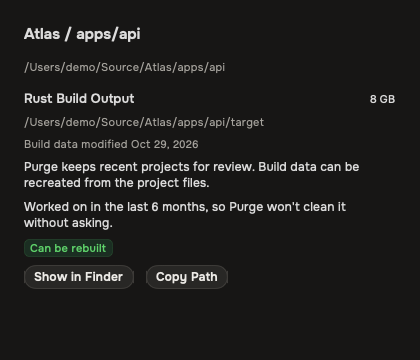
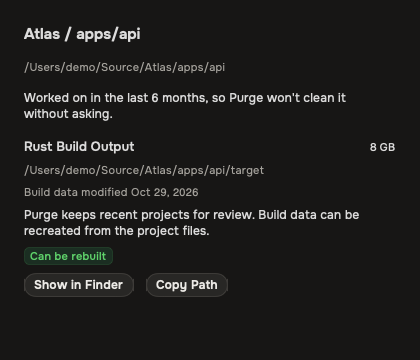
fix: constrain project review to the visible scope (#392)

diff --git a/purge/Services/DevScanner.swift b/purge/Services/DevScanner.swift
@@ -1210,6 +1210,7 @@ nonisolated final class DevScanner {
         )
         let (groups, artifactsSized) = await buildProjectGroups(
             for: discoveredRoots,
+            home: home,
             access: access,
             filter: filter,
             continuation: continuation
@@ -1558,6 +1559,7 @@ nonisolated final class DevScanner {
 
     private func buildProjectGroups(
         for discovered: [(URL, [ProjectType])],
+        home: URL,
         access: ScanAccess,
         filter: ProjectListingFilter,
         continuation: AsyncStream<DeveloperScanEvent>.Continuation? = nil
@@ -1575,7 +1577,7 @@ nonisolated final class DevScanner {
 
             while inFlight < Self.maxConcurrentProjectSizings, let next = pending.next() {
                 group.addTask { [next] in
-                    DevScanner.sizeProjectGroup(rootURL: next.0, types: next.1, access: access, filter: filter)
+                    DevScanner.sizeProjectGroup(rootURL: next.0, types: next.1, access: access, filter: filter, home: home)
                 }
                 inFlight += 1
             }
@@ -1591,7 +1593,7 @@ nonisolated final class DevScanner {
                 if Task.isCancelled { continue }
                 if let next = pending.next() {
                     group.addTask { [next] in
-                        DevScanner.sizeProjectGroup(rootURL: next.0, types: next.1, access: access, filter: filter)
+                        DevScanner.sizeProjectGroup(rootURL: next.0, types: next.1, access: access, filter: filter, home: home)
                     }
                 }
             }
@@ -1615,7 +1617,8 @@ nonisolated final class DevScanner {
         rootURL: URL,
         types: [ProjectType],
         access: ScanAccess,
-        filter: ProjectListingFilter
+        filter: ProjectListingFilter,
+        home: URL = FileManager.default.homeDirectoryForCurrentUser
     ) -> (ProjectGroup?, Int) {
         let rows = DevScanner.collectArtifacts(projectRoot: rootURL, types: types, access: access)
         guard !rows.isEmpty else { return (nil, 0) }
@@ -1691,10 +1694,21 @@ nonisolated final class DevScanner {
                 rootPath: rootURL,
                 inferredTypes: types,
                 artifacts: sized,
-                repositoryRoot: GitRepositoryFinder.enclosingRepository(for: rootURL)
+                repositoryRoot: Self.projectRepositoryRoot(for: rootURL, home: home)
             ),
             rows.count
         )
+    }
+
+    nonisolated static func projectRepositoryRoot(for project: URL, home: URL) -> URL? {
+        // The chosen folder can itself be a repository. For the normal home
+        // scan, stop below home so a dotfiles repository can't own every card.
+        let addedRoot = ScanFolders.snapshotRoot(holding: project.standardizedFileURL.path)
+        let homePath = home.standardizedFileURL.path
+        return GitRepositoryFinder.enclosingRepository(for: project) { candidate in
+            if let addedRoot { return PathContainment.isSameOrInside(candidate, addedRoot) }
+            return PathContainment.isInside(candidate, homePath)
+        }
     }
 
     struct SizedArtifactIntermediate {

diff --git a/PurgeTests/ProjectAddedFolderTests.swift b/PurgeTests/ProjectAddedFolderTests.swift
@@ -134,6 +134,34 @@ struct ProjectAddedFolderTests {
         #expect(listed.allSatisfy { $0.safetyInfo.level == .safe && $0.checkFirstReason == nil })
     }
 
+    @Test("Project card repositories stay within the applicable scan folder")
+    func cardRepositoryStopsAtScanBoundary() throws {
+        let drive = try Drive()
+        defer { drive.remove() }
+        try drive.write("Home/.git/HEAD")
+        try drive.write("Home/Mono/.git/HEAD")
+        try drive.write("Home/LooseApp/package.json")
+        try drive.write("Home/Mono/apps/Web/package.json")
+        try drive.write("Home/Mono/apps/Owned/.git/HEAD")
+
+        func repositoryPath(_ relative: String) -> String? {
+            DevScanner.projectRepositoryRoot(for: drive.url(relative), home: drive.url("Home"))?.standardizedFileURL.path
+        }
+
+        let mono = drive.url("Home/Mono").standardizedFileURL.path
+        #expect(repositoryPath("Home/LooseApp") == nil)
+        #expect(repositoryPath("Home/Mono/apps/Web") == mono)
+
+        ScanFolders.$snapshotOverride.withValue(.init(walked: [mono], saved: [mono])) {
+            #expect(repositoryPath("Home/Mono/apps/Web") == mono)
+        }
+        let apps = drive.url("Home/Mono/apps").standardizedFileURL.path
+        ScanFolders.$snapshotOverride.withValue(.init(walked: [apps], saved: [apps])) {
+            #expect(repositoryPath("Home/Mono/apps/Web") == nil)
+            #expect(repositoryPath("Home/Mono/apps/Owned") == drive.url("Home/Mono/apps/Owned").standardizedFileURL.path)
+        }
+    }
+
     @Test("On an added folder, a project inside an app bundle is refused and never walked into")
     func appBundleOnADrive() throws {
         let drive = try Drive()

diff --git a/purge/Views/DeveloperProjectHeader.swift b/purge/Views/DeveloperProjectHeader.swift
@@ -122,6 +122,10 @@ struct DeveloperProjectHeader: View {
                     .font(AppStyle.Typography.metadata)
                     .foregroundStyle(AppColors.textSecondary)
                     .textSelection(.enabled)
+                if let reason = artifacts.lazy.filter({ $0.safetyInfo.level == .medium })
+                    .compactMap(\.checkFirstReason).first {
+                    Text(reason.summary).font(AppStyle.Typography.callout)
+                }
                 ForEach(artifacts) { artifact in
                     VStack(alignment: .leading, spacing: AppStyle.Spacing.xSmall) {
                         HStack {
@@ -140,9 +144,6 @@ struct DeveloperProjectHeader: View {
                         }
                         Text(LocalizedStringKey(artifact.safetyInfo.explanation))
                             .font(AppStyle.Typography.callout)
-                        if let reason = artifact.checkFirstReason, artifact.safetyInfo.level == .medium {
-                            Text(reason.summary).font(AppStyle.Typography.callout)
-                        }
                         if artifact.reinstallSafety == .reinstallable {
                             AppBadge(text: String(localized: "Can be rebuilt"), tone: .safe)
                         } else if artifact.reinstallSafety == .missingLockfile {

diff --git a/purge/Views/DevModeView.swift b/purge/Views/DevModeView.swift
@@ -405,7 +405,7 @@ struct DevToolsView: View {
         guard store.projectGroups.indices.contains(gi) else { return [] }
         let g = store.projectGroups[gi]
         let filter = currentSafetyFilter
-        return g.artifacts.indices.filter { filter.matches(g.artifacts[$0].safetyInfo) }
+        return g.artifacts.indices.filter { store.showsRow(g.artifacts[$0], under: filter) }
     }
 
     private func projectSelectTriState(forGroupIndex gi: Int) -> SelectAllTriState {
@@ -435,8 +435,7 @@ struct DevToolsView: View {
     private func sortedVisibleArtifactIndices(forGroup gi: Int) -> [Int] {
         guard store.projectGroups.indices.contains(gi) else { return [] }
         let g = store.projectGroups[gi]
-        let filter = currentSafetyFilter
-        let raw = g.artifacts.indices.filter { store.showsRow(g.artifacts[$0], under: filter) }
+        let raw = eligibleArtifactIndices(forGroupIndex: gi)
         switch currentSort {
         case .sizeDesc:
             return raw.sorted { g.artifacts[$0].sizeBytes > g.artifacts[$1].sizeBytes }

diff --git a/purge/Services/GitStatusChecker.swift b/purge/Services/GitStatusChecker.swift
@@ -1,9 +1,12 @@
 import Foundation
 
 enum GitRepositoryFinder {
-    nonisolated static func enclosingRepository(for itemPath: URL) -> URL? {
+    nonisolated static func enclosingRepository(
+        for itemPath: URL,
+        isInScope: (String) -> Bool = { _ in true }
+    ) -> URL? {
         var candidate = itemPath.standardizedFileURL
-        while true {
+        while isInScope(candidate.path) {
             if hasGit(at: candidate) {
                 return candidate
             }
